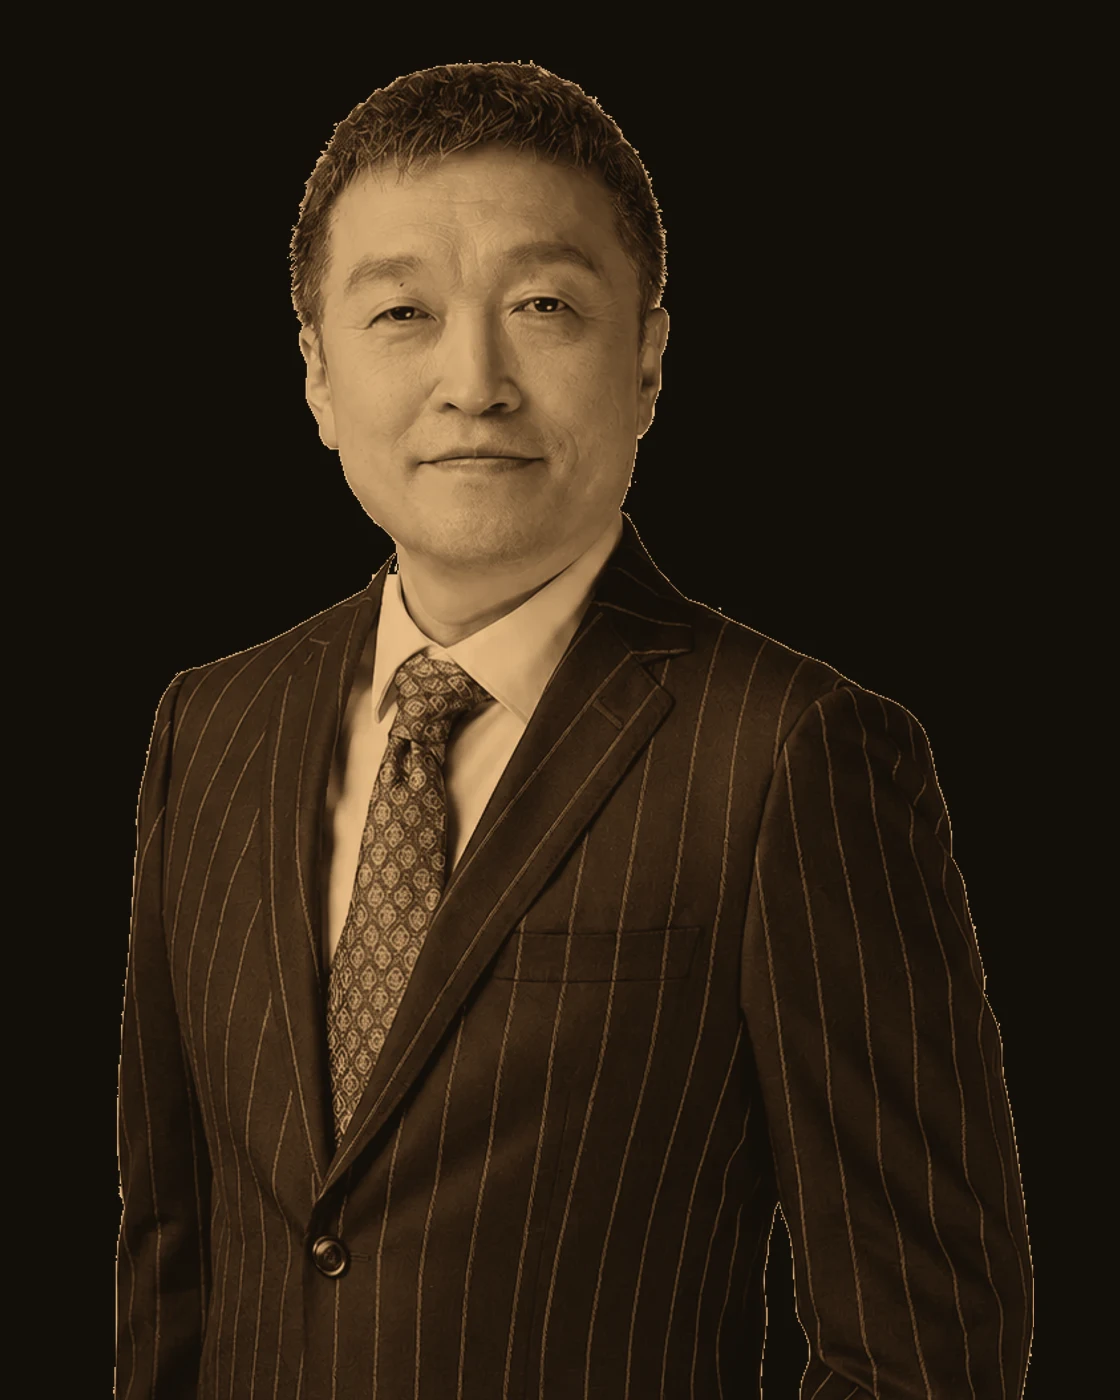
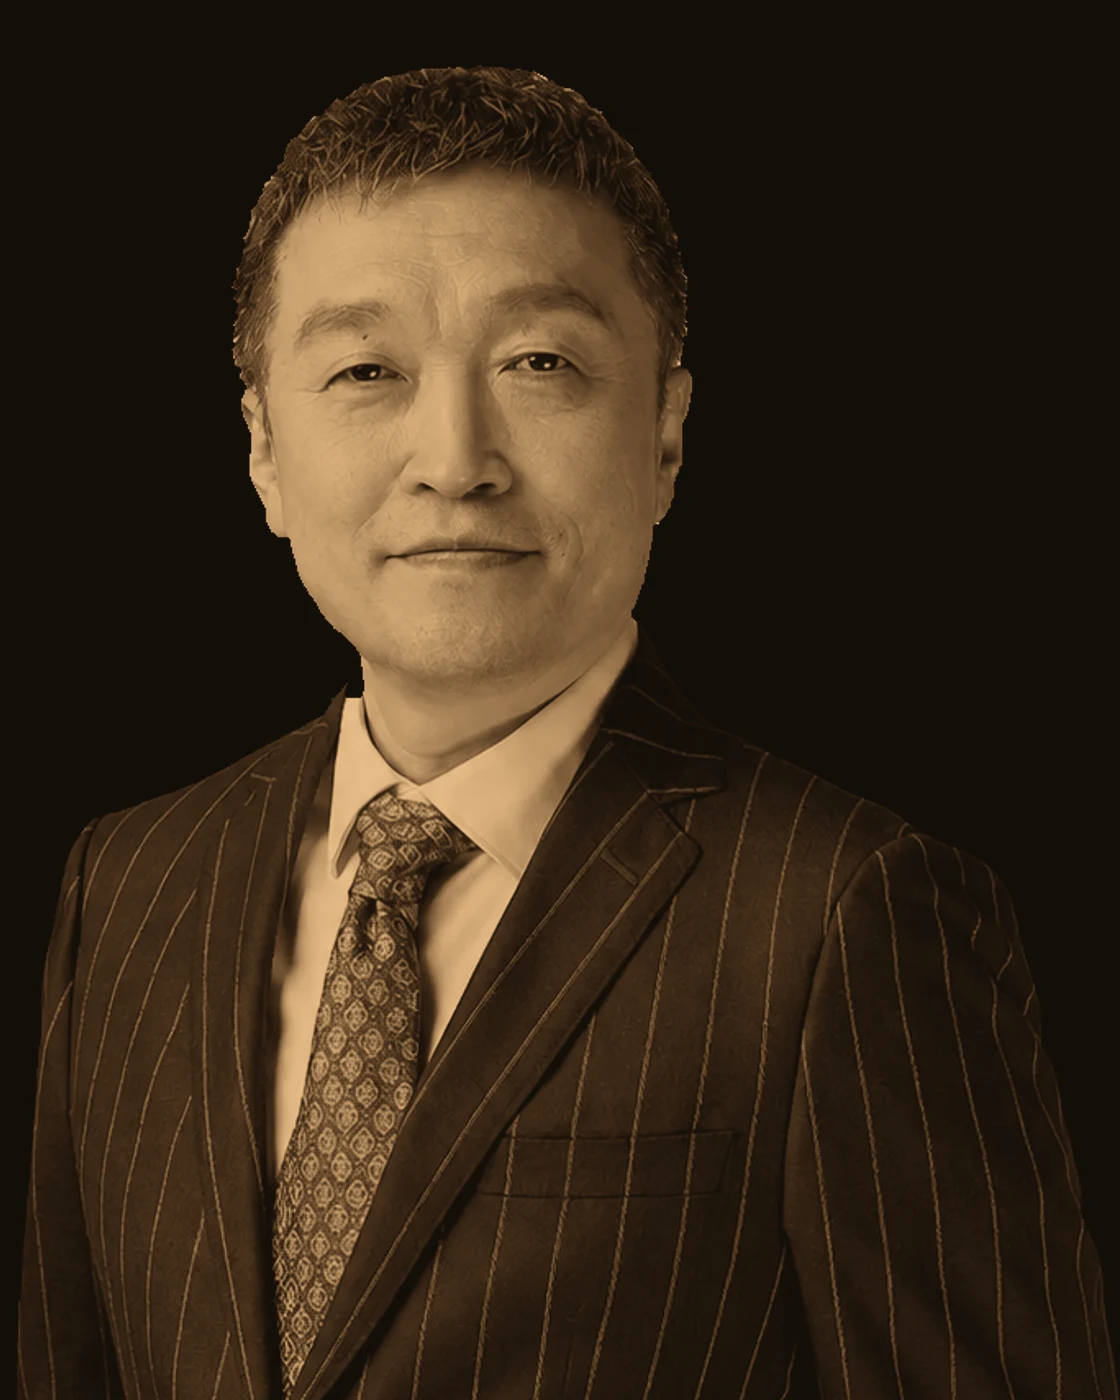
Restore Yan Wu portrait scale and smooth cutout edges

diff --git a/lib/data.ts b/lib/data.ts
@@ -31,7 +31,7 @@ export const GROUPS: Group[] = [
     code: "A",
     people: [
       { name: "Stanley Tong", role: "Internationally Acclaimed Film Director, Producer & Action Choreographer · Hong Kong Film Award–Winning Filmmaker", affiliation: "", link: "https://en.wikipedia.org/wiki/Stanley_Tong", photo: "images/people/stanley-tong-2026.webp?v=10", photoPosition: "50% 48%" },
-      { name: "Yan Wu", role: "Pioneer of Science-Fiction Education in China · Director, Science and Human Imagination Research Center · Award-Winning Science-Fiction Writer & Professor", affiliation: "Southern University of Science and Technology", link: "https://www.sustech.edu.cn/en/faculties/wuyan-2.html", photo: "images/people/yan-wu-cutout-card.webp?v=15" },
+      { name: "Yan Wu", role: "Pioneer of Science-Fiction Education in China · Director, Science and Human Imagination Research Center · Award-Winning Science-Fiction Writer & Professor", affiliation: "Southern University of Science and Technology", link: "https://www.sustech.edu.cn/en/faculties/wuyan-2.html", photo: "images/people/yan-wu-cutout-card.webp?v=16" },
       { name: "Shengyi Ye", role: "Former Lead Scientist, NASA Cassini Data Analysis Program · Guangdong Pearl River Leading Talent · Professor of Planetary & Space Sciences", affiliation: "Southern University of Science and Technology", link: "https://www.sustech.edu.cn/en/faculties/yeshengyi.html", photo: "images/people/shengyi-ye.jpg?v=8" },
       { name: "Zhigang Wang", role: "Chair, Department of Information Art & Design, Founding Director, Tsinghua Academy of New Media Performance Innovation · Tenured Professor", affiliation: "Tsinghua University", link: "https://www.enad.tsinghua.edu.cn/info/1229/1363.htm", photo: "images/people/zhigang-wang.jpg?v=8" },
       { name: "Zhonghua Yao", role: "President, Planetary Sciences Section, Asia Oceania Geosciences Society · NASA Cassini Group Achievement Award Recipient · Associate Professor of Planetary Sciences", affiliation: "The University of Hong Kong", link: "https://www.earthsciences.hku.hk/people/academic-staff/dr-yao-zhonghua", photo: "images/people/zhonghua-yao.jpg?v=9" },
